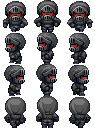
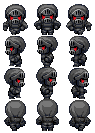
Fixed sprite textures

diff --git a/src/Entities/player/player.c b/src/Entities/player/player.c
@@ -217,5 +217,7 @@ void handleInput(Framework *game, Player *playerX, Player *playerY, Player *play
 void loadPlayers(SDL_Renderer *renderer, Player players[]) {
     players[0] = createPlayer(renderer, "resources/Runner_1.png", 1, 300, 300);
     players[1] = createPlayer(renderer, "resources/Hunter.png", 2, 242, 280);
-    players[2] = createPlayer(renderer, "resources/Runner_3.png", 3, 300, 400);
+    players[2] = createPlayer(renderer, "resources/Runner_2.png", 3, 300, 400);
+    players[3] = createPlayer(renderer, "resources/Runner_3.png", 3, 350, 400);
+
 }
